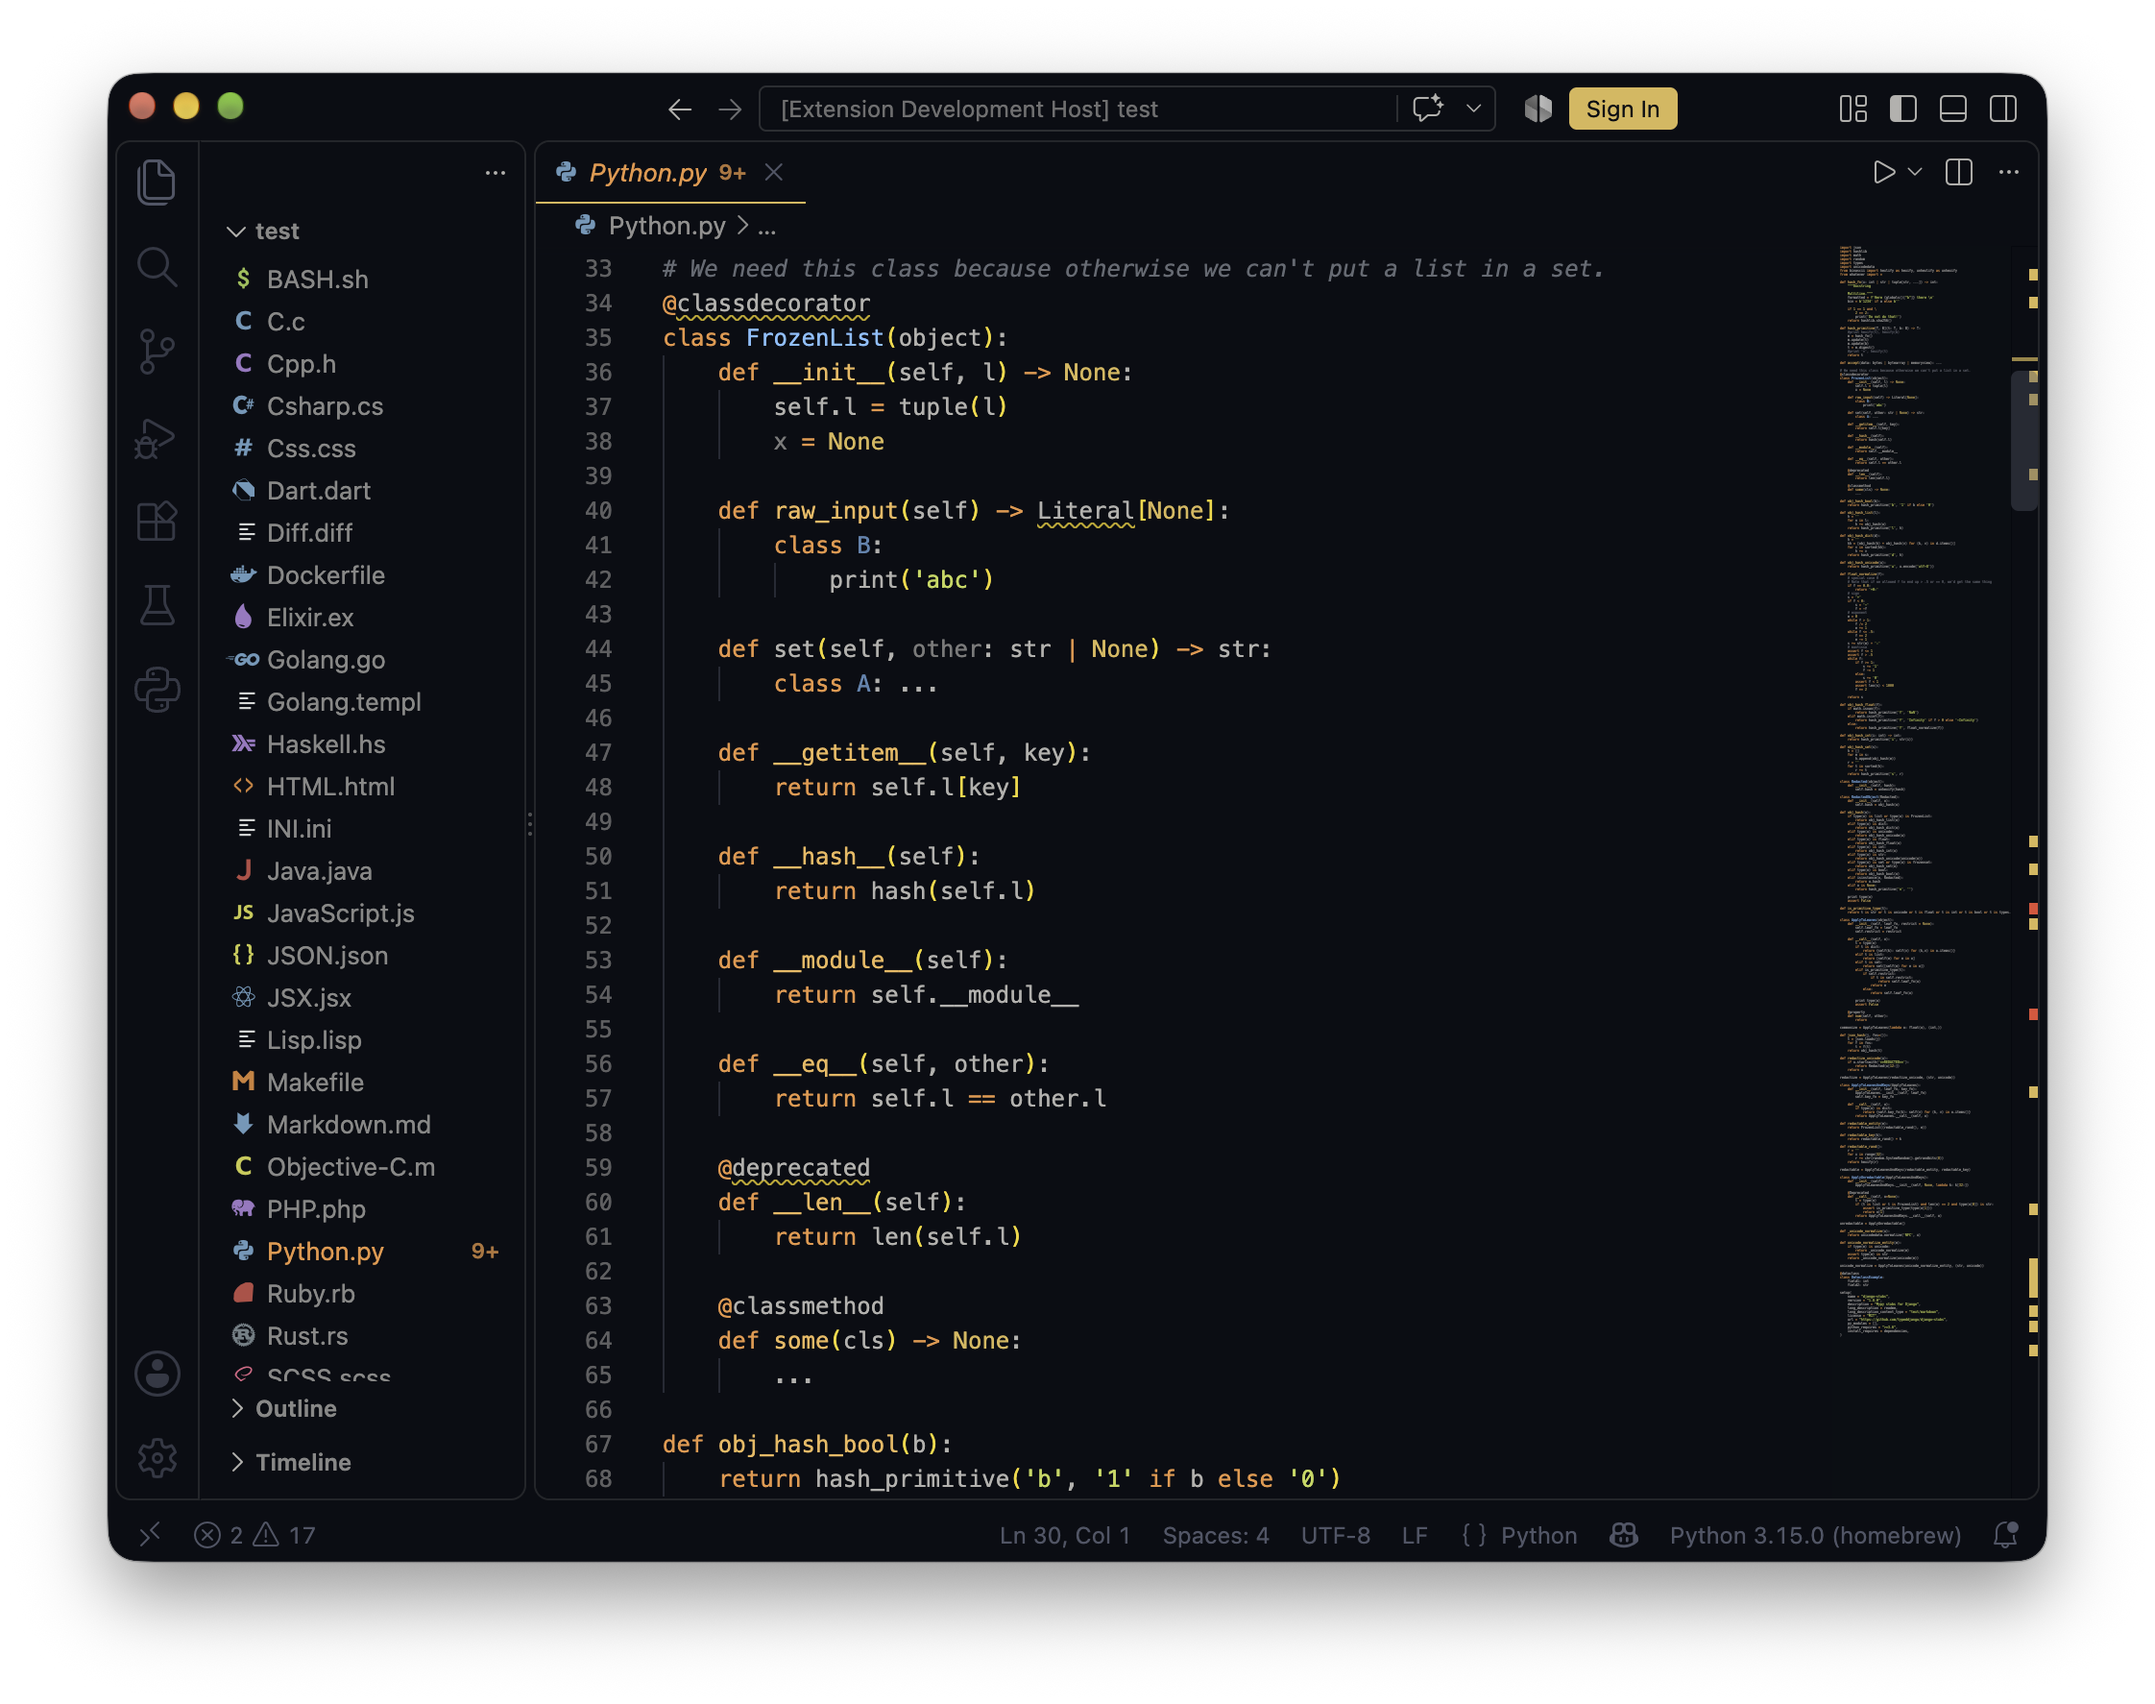
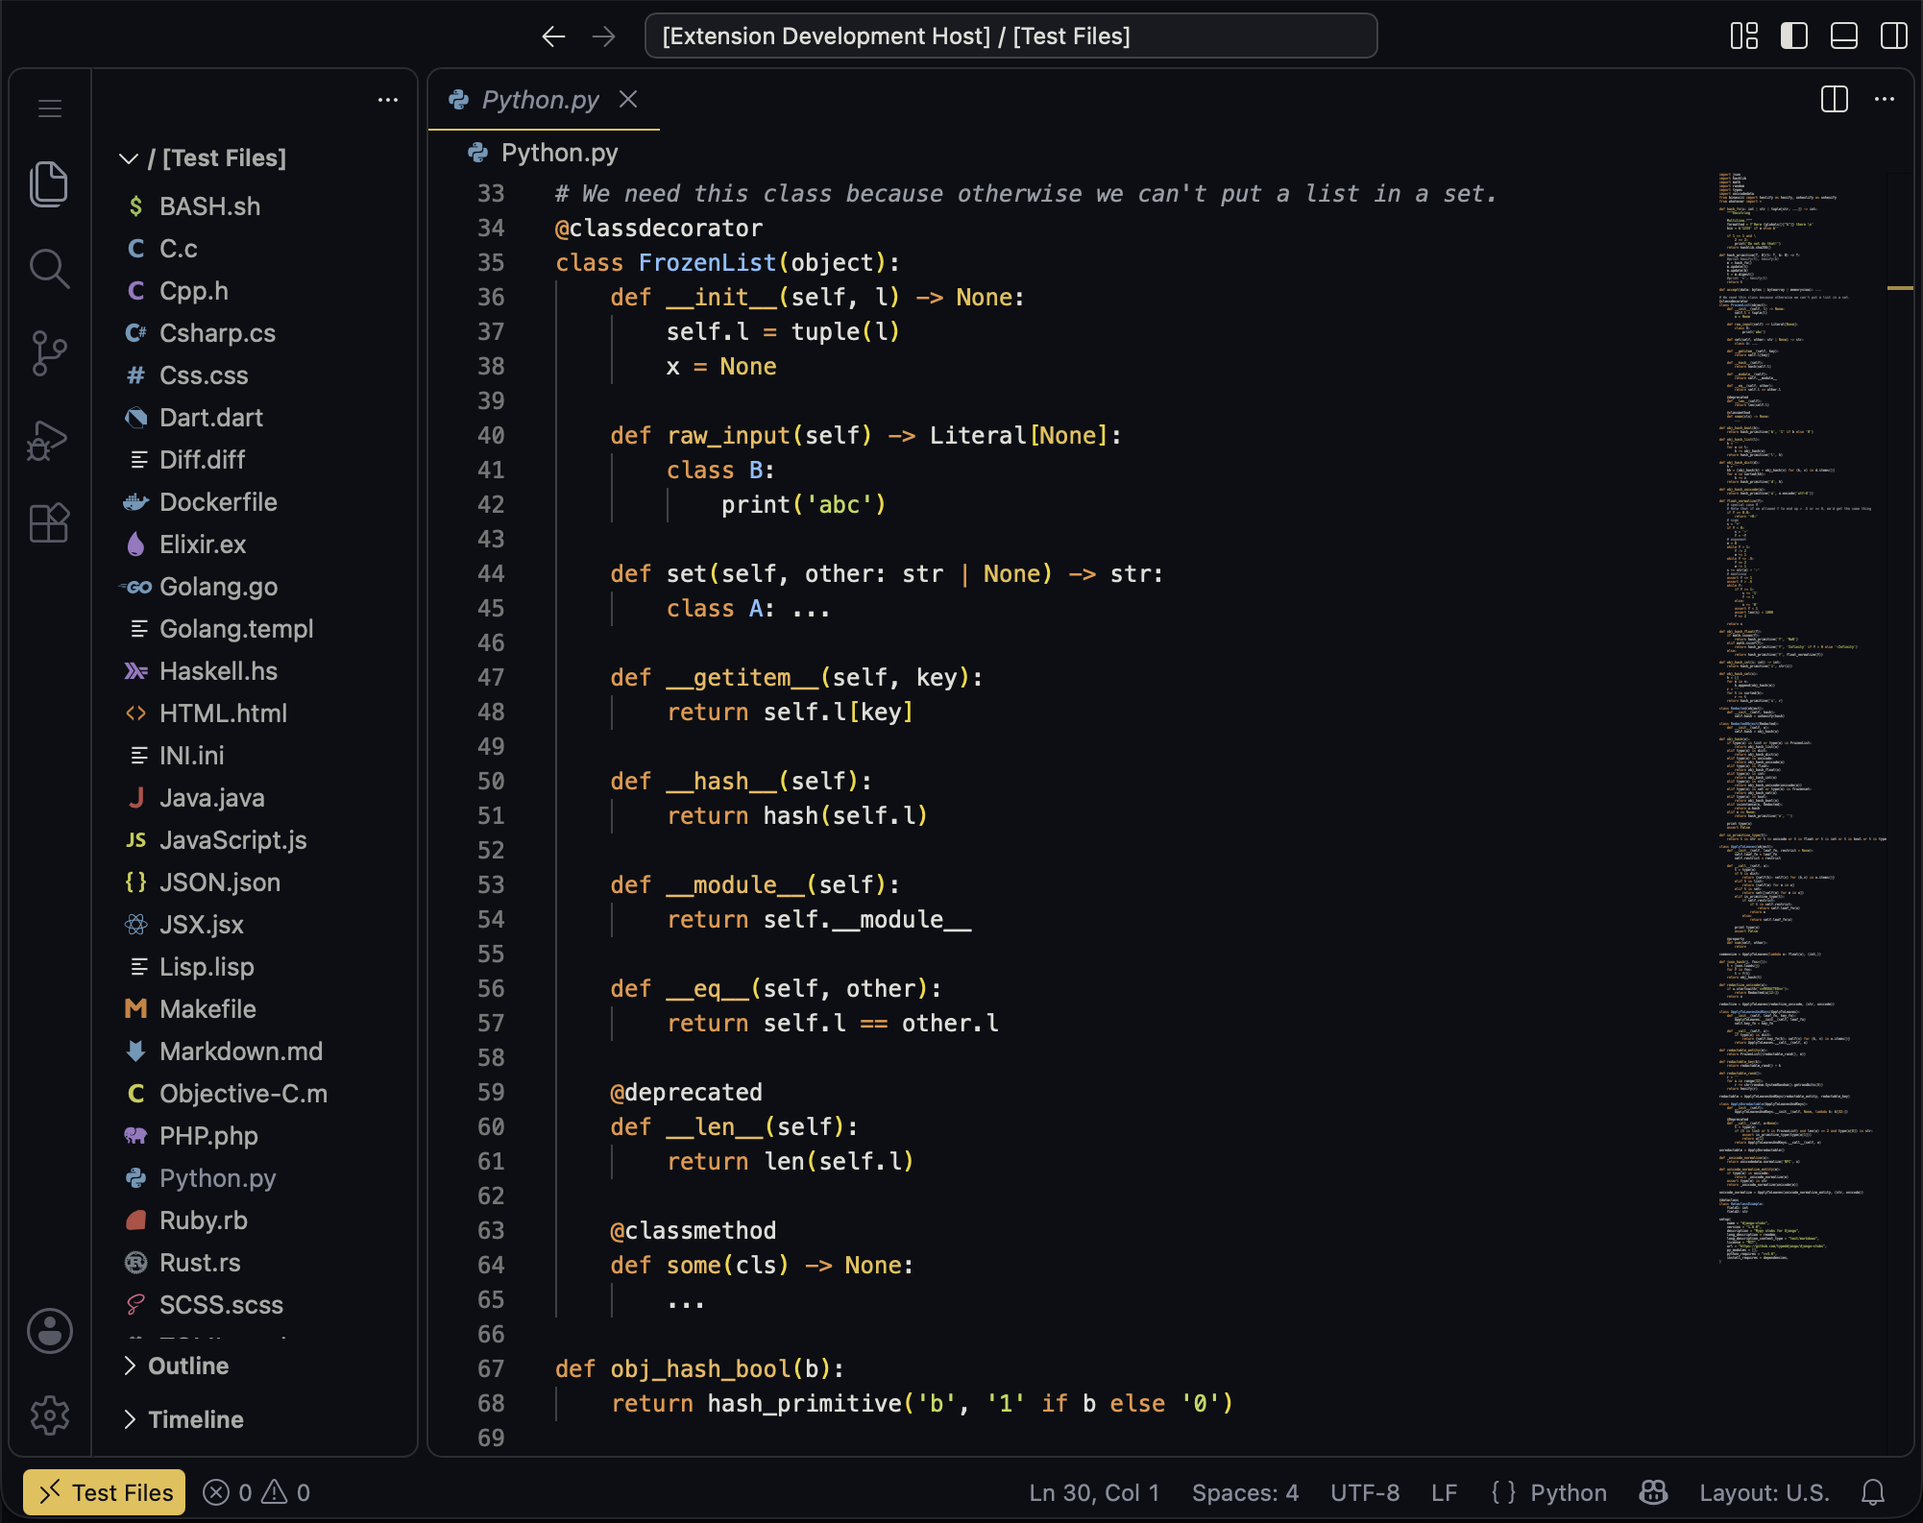
Make contrast palette extend dark

Changed region(s): [[0.0, 0.0, 1.0, 1.0], [0.3097, 0.3707, 0.5884, 0.4016], [0.6813, 0.1236, 0.7433, 0.1545]]

diff --git a/src/build.js b/src/build.js
@@ -4,40 +4,47 @@
 // Usage:
 //   node src/build.js          # (re)generate theme files
 //   node src/build.js --check  # fail if generated files differ from the committed ones
-const fs = require('fs');
-const path = require('path');
+const fs = require("fs");
+const path = require("path");
 
-const buildTheme = require('./theme');
+const buildTheme = require("./theme");
 
-const ROOT = path.join(__dirname, '..');
-const THEMES_DIR = path.join(ROOT, 'themes');
-
-// `source` is the palette path, used in the header of the generated theme.
-function loadPalette(source) {
-  return { source, ...require(path.join(ROOT, source)) };
-}
+const ROOT = path.join(__dirname, "..");
+const THEMES_DIR = path.join(ROOT, "themes");
 
 const PALETTES = [
-  loadPalette('src/palettes/dark.json'),
-  loadPalette('src/palettes/light.json'),
-  loadPalette('src/palettes/contrast.json'),
+  loadPalette("src/palettes/dark.json"),
+  loadPalette("src/palettes/light.json"),
+  loadPalette("src/palettes/contrast.json"),
 ];
+
+function loadPalette(palettePath) {
+  const { extends: base, ...palette } = require(path.join(ROOT, palettePath));
+  if (!base) return { source: palettePath, ...palette };
+
+  const parent = loadPalette(path.join(path.dirname(palettePath), base));
+  const colors = { ...parent.colors };
+  for (const [group, values] of Object.entries(palette.colors)) {
+    colors[group] = { ...colors[group], ...values };
+  }
+  return { ...parent, ...palette, colors, source: palettePath };
+}
 
 // VSCode reads theme files as JSONC, so a comment header is fine here.
 function header(palette) {
   return [
-    '// This file is generated by `npm run build`, do not edit it by hand.',
+    "// This file is generated by `npm run build`, do not edit it by hand.",
     `// Layout: \`src/theme.js\`, colors: \`${palette.source}\`.`,
-    '',
-  ].join('\n');
+    "",
+  ].join("\n");
 }
 
 function render(palette) {
-  return header(palette) + JSON.stringify(buildTheme(palette), null, 2) + '\n';
+  return header(palette) + JSON.stringify(buildTheme(palette), null, 2) + "\n";
 }
 
 function main(argv) {
-  const check = argv.includes('--check');
+  const check = argv.includes("--check");
   let failed = false;
 
   for (const palette of PALETTES) {
@@ -46,7 +53,9 @@ function main(argv) {
     const content = render(palette);
 
     if (check) {
-      const existing = fs.existsSync(target) ? fs.readFileSync(target, 'utf8') : null;
+      const existing = fs.existsSync(target)
+        ? fs.readFileSync(target, "utf8")
+        : null;
       if (existing === content) {
         console.log(`OK       ${relative}`);
       } else {

diff --git a/ABOUT.md b/ABOUT.md
@@ -41,10 +41,10 @@ Everything else is just dark grey (`#181B1F`) ![#181B1F](https://placehold.co/15
 
 ### pustota contrast
 
-`pustota contrast` is the same dark theme with brighter text and comments, and more saturated accents.
+`pustota contrast` is the same dark theme with brighter text, comments and constants.
 It highlights exactly the same things:
 1. Comments (`#959DA6`) ![#959DA6](https://placehold.co/15x15/959DA6/959DA6.png)
-2. Strings (`#CCE53D`) ![#CCE53D](https://placehold.co/15x15/CCE53D/CCE53D.png)
+2. Strings (`#C2D94C`) ![#C2D94C](https://placehold.co/15x15/C2D94C/C2D94C.png)
 3. Constants (`#F5BD47`) ![#F5BD47](https://placehold.co/15x15/F5BD47/F5BD47.png)
 4. Keywords and operators (`#FF8F40`) ![#FF8F40](https://placehold.co/15x15/FF8F40/FF8F40.png)
 5. Function definitions (`#FFB454`) ![#FFB454](https://placehold.co/15x15/FFB454/FFB454.png)

diff --git a/src/palettes/README.md b/src/palettes/README.md
@@ -7,3 +7,5 @@ Colors come from [Ayu](https://github.com/ayu-theme/vscode-ayu) (`ayu` colors v7
 `syntax.constant`, `syntax.operator` and `syntax.error` are only used in UI, not in code.
 
 To add a palette, create a JSON file here and list it in `build.js` and `package.json`.
+
+A palette can set `extends` to another palette file and list only the colors it changes, see `contrast.json`.
